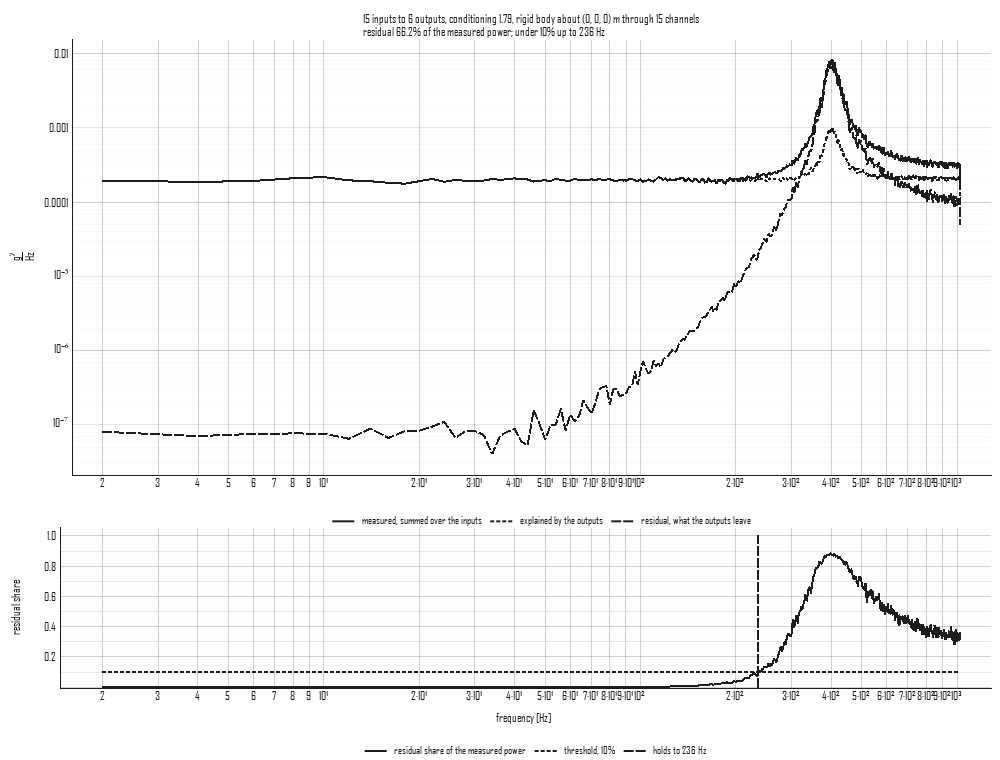
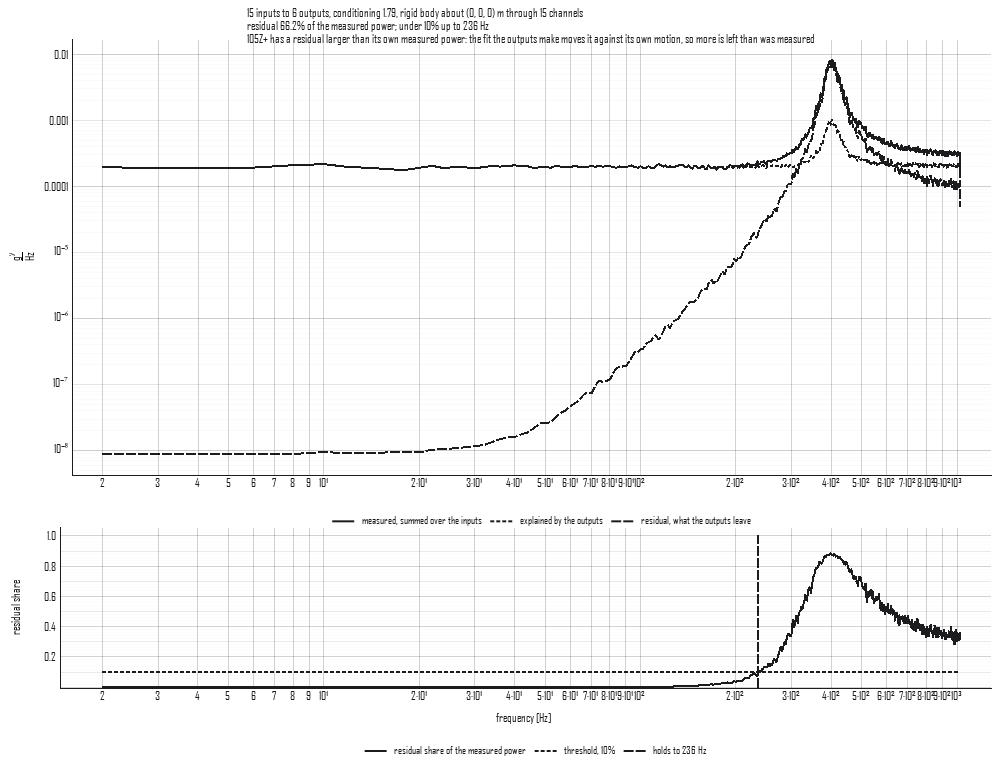
Transformation and partial coherence: each channel's residual read as P G P, complex cross terms checked against simulated records
The residual was each channel's autospectrum less the diagonal of
Q G Q, which carries the cross terms Q G P + P G Q: they sum to nothing
over the channels but not channel by channel, so one channel's
residual came out too small or under zero and was clipped, and the
clipped lines inflated the summed share at low frequency. It is now
read on its own diagonal, P G P. A channel whose residual passes its
own power is said in the notes.

Pinned against records: three inputs whose cross terms turn in phase
with frequency transform as the records the matrix makes, cross terms
included, and the residual is the autospectrum of what the projector
leaves of them; a mean of three channels worked by hand. Partial and
multiple coherence of two correlated drives through a complex plant
read the values the simulation gives, which a conditioning built with
the plain transpose misses by more than 0.15. The status line says at
how many lines a partial coherence is undefined. Guide figure redrawn.

diff --git a/src/visualdynamics/core/transformation.py b/src/visualdynamics/core/transformation.py
@@ -21,7 +21,9 @@ applied the same way, to a time history or spectrum row by row,
 `y = T u`, and to a cross-spectral density or a specification as the
 quadratic form `G_yy = T G_uu Tᵀ`, which needs every cross term between
 the inputs: the phase between two channels is what tells a translation
-from a rotation.
+from a rotation. The package stores a cross term as conj(X_a)·X_b
+(`compute_cpsds`), which makes the form `conj(T) G_uu Tᵀ`; a
+transformation is real, so the two are one.
 
 Every input and output is a translation or a rotation. An entry's unit
 follows from the two it joins: `[T_ij] = length^(r_j − r_i)`, with `r`
@@ -930,9 +932,14 @@ class TransformationResidual:
     quantity : str
         The motion the density is of.
     measured, explained, residual : numpy.ndarray
-        `(channels, lines)`: each input's autospectrum, the part of it
-        the outputs explain, `Q G Q`, and the rest, `P G P`, in SI.
-        `measured = explained + residual` channel by channel.
+        `(channels, lines)`: each input's autospectrum, the diagonal
+        of `Q G Q` (what the outputs explain) and the diagonal of
+        `P G P` (the rest), in SI. Summed over the channels,
+        `measured = explained + residual` exactly, since `P Q = 0`; a
+        single channel's two parts also share the cross terms
+        `Q G P + P G Q`, so they need not add up to its autospectrum,
+        and a quiet channel's residual can pass its own power where the
+        projector carries a louder channel's motion into it.
     threshold : float
         The share of the measured power the residual may reach and the
         transformation still be said to hold (`holds_to`).
@@ -981,8 +988,10 @@ class TransformationResidual:
 
     @property
     def channel_fractions(self) -> np.ndarray:
-        """Each input's residual share of its own power over the band,
-        not a number for a channel that measured nothing."""
+        """Each input's residual over its own power across the band,
+        not a number for a channel that measured nothing. It can pass
+        one on a quiet channel, where the projector carries a louder
+        channel's motion into it (`residual`)."""
         power = np.sum(self.measured, axis=1)
         with np.errstate(divide='ignore', invalid='ignore'):
             share = np.sum(self.residual, axis=1) / power
@@ -1045,8 +1054,10 @@ def read_residual(transformation: Transformation, density: DataArray,
 
     With `Q = T⁺T` and `P = I − Q`, the explained part of the
     cross-spectral matrix at the inputs is `Q G Q` and the residual
-    `P G P`; on the diagonal they sum to the measured autospectra
-    because `P Q = 0`. For a rigid-body transformation the residual is
+    `P G P`; their traces sum to the measured power because `P Q = 0`,
+    and each is read on its own diagonal, since channel by channel the
+    cross terms `Q G P + P G Q` need not vanish. For a rigid-body
+    transformation the residual is
     the motion that is not rigid, and `holds_to` says up to what
     frequency it stays under `threshold` of the measured power.
 
@@ -1106,6 +1117,14 @@ def read_residual(transformation: Transformation, density: DataArray,
                               transformation.input_kinds,
                               transformation.input_kinds)
     measured, _same = identity.apply(density, records, quantity=quantity)
+    # and `P G P` read on its own: by difference, each channel's
+    # residual would carry the cross terms `Q G P + P G Q`, which sum to
+    # nothing over the channels but not channel by channel
+    projector = Transformation(transformation.residual_projector,
+                               transformation.inputs, transformation.inputs,
+                               transformation.input_kinds,
+                               transformation.input_kinds)
+    left, _left = projector.apply(density, records, quantity=quantity)
     base = next(iter(_report.shared))
 
     def diagonal(psd):
@@ -1116,15 +1135,28 @@ def read_residual(transformation: Transformation, density: DataArray,
 
     g = diagonal(measured)
     q = diagonal(explained)
-    # the residual by difference, which is `P G P` on the diagonal; a
-    # few parts in 1e15 under zero is the subtraction
-    r = np.maximum(g - q, 0.0)
+    # each is a power, so a few parts in 1e15 under zero is round-off
+    r = np.maximum(diagonal(left), 0.0)
     dead = [name for name, row in zip(transformation.inputs, g)
             if not np.any(row > 0.0)]
     if dead:
         notes.append(f'{", ".join(dead)} measured nothing, so '
                      f'{"they say" if len(dead) > 1 else "it says"} nothing '
                      'about the residual')
+    with np.errstate(divide='ignore', invalid='ignore'):
+        over = [name for name, mine, power in zip(
+            transformation.inputs, np.sum(r, axis=1), np.sum(g, axis=1))
+            if power > 0.0 and mine > power]
+    if over:
+        # a residual larger than the motion measured reads as an error
+        # unless the reading says how it arises
+        many = len(over) > 1
+        notes.append(f'{", ".join(over)} {"have" if many else "has"} a '
+                     f'residual larger than {"their" if many else "its"} '
+                     'own measured power: the fit the outputs make moves '
+                     f'{"them" if many else "it"} against '
+                     f'{"their" if many else "its"} own motion, so more is '
+                     'left than was measured')
     total = np.sum(g, axis=0)
     empty = int(np.sum(~(total > 0.0)))
     if empty and empty < len(total):
@@ -1132,5 +1164,5 @@ def read_residual(transformation: Transformation, density: DataArray,
                      'power, where the residual is not read')
     return TransformationResidual(
         transformation, np.asarray(density.abscissa, dtype=np.float64),
-        list(transformation.inputs), base, g, np.minimum(q, g), r,
+        list(transformation.inputs), base, g, np.maximum(q, 0.0), r,
         float(threshold), notes)

diff --git a/tests/test_transformation.py b/tests/test_transformation.py
@@ -669,6 +669,106 @@ def test_a_density_with_other_channels_is_split_to_its_inputs():
     np.testing.assert_allclose(out.ordinate, expected.ordinate)
 
 
+def test_a_density_with_complex_cross_terms_transforms_as_its_records_do():
+    """Three Z inputs along a line whose cross terms are complex (each
+    carries the first some samples late, so the phase between them turns
+    with frequency): bounce and pitch applied to their CPSDs are the
+    CPSD of the records the matrix makes, cross terms included, and the
+    residual read from the density is the autospectrum of what the
+    residual projector leaves of the records. The package stores a cross
+    term as conj(X_a) X_b, so a density goes through as conj(T) G T^T,
+    which is T G T^T for a real T; a density read transposed would give
+    the outputs' cross terms conjugated, and a real-valued case could not
+    see it."""
+    rng = np.random.default_rng(5)
+    n = 1 << 14
+    w = rng.standard_normal((3, n))
+    u = np.vstack([w[0], 0.7 * np.roll(w[0], 5) + 0.4 * w[1],
+                   0.5 * np.roll(w[0], 11) + 0.6 * w[2]])
+    t = np.arange(n) / 1024.0
+    dofs = ['1Z+', '2Z+', '3Z+']
+    averaging = Averaging(frame_length=256, overlap=0.5).filled(n, 1024.0)
+
+    def history(values, names):
+        made = visualdynamics.TimeHistory(t, values, response_dof=names,
+                                          ordinate_dim='acceleration')
+        made.averaging = averaging
+        return made
+
+    inputs = history(u, dofs)
+    density = inputs.compute_cpsds()
+    middle = density.ordinate[1][1:-1]
+    assert np.abs(np.imag(middle)).max() > 0.5 * np.abs(middle).max()
+    phi = np.array([[1.0, -0.2], [1.0, 0.0], [1.0, 0.2]])
+    matrix = Transformation.typed(np.linalg.pinv(phi), dofs,
+                                  ['9Z+', '9RY+'])
+    out, _report = matrix.apply(density)
+    records, _report = matrix.apply(inputs)
+    records.averaging = averaging
+    truth = records.compute_cpsds()
+    where = {pair: i for i, pair in enumerate(zip(truth.response_dof,
+                                                  truth.reference_dof))}
+    for i, pair in enumerate(zip(out.response_dof, out.reference_dof)):
+        np.testing.assert_allclose(out.ordinate[i],
+                                   truth.ordinate[where[pair]],
+                                   rtol=1e-9, atol=1e-12)
+    left = history(matrix.residual_projector @ u, dofs).compute_cpsds()
+    expected = np.real(left.ordinate[[0, 4, 8]])
+    reading = read_residual(matrix, density)
+    assert expected.max() > 0.01 * np.real(density.ordinate[0]).max()
+    np.testing.assert_allclose(reading.residual, expected,
+                               rtol=1e-6, atol=1e-9 * expected.max())
+
+
+def test_each_channels_residual_is_its_own_and_can_pass_its_power():
+    """The mean of three Z channels as the one output, and a density
+    where only the third moves much (0.01, 0.01 and 1, uncorrelated).
+    With P = I - J/3, the first channel's residual is
+    (4/9)(0.01) + (1/9)(0.01) + (1/9)(1) = 1.05/9: the mean moves it by a
+    third of the third channel's motion, which it did not make. Read by
+    difference from its own autospectrum it would be 0.01 - 1.02/9,
+    under zero, and read as nothing."""
+    dofs = ['1Z+', '2Z+', '3Z+']
+    levels = np.diag([0.01, 0.01, 1.0])
+    f = np.array([10.0, 20.0])
+    psd = visualdynamics.Psd(
+        f, np.array([np.full(2, levels[i, j], dtype=complex)
+                     for i in range(3) for j in range(3)]),
+        response_dof=[d for d in dofs for _ in dofs],
+        reference_dof=[d for _ in dofs for d in dofs],
+        ordinate_dim='acceleration**2/frequency')
+    mean = Transformation.typed(np.full((1, 3), 1.0 / 3.0), dofs, ['9Z+'])
+    reading = read_residual(mean, psd)
+    assert reading.residual[0] == pytest.approx(np.full(2, 1.05 / 9.0))
+    assert reading.residual[2] == pytest.approx(np.full(2, 4.0 / 9.0
+                                                        + 0.02 / 9.0))
+    assert reading.channel_fractions[0] == pytest.approx(10.5 / 9.0 * 10.0)
+    assert ('1Z+, 2Z+ have a residual larger than their own measured '
+            'power') in reading.notes[-1]
+    # the summed residual is still the trace's: tr(PGP) = tr(G) - tr(QGQ)
+    assert reading.fraction == pytest.approx(
+        np.full(2, (1.02 - 1.02 / 3.0) / 1.02))
+
+    def density(levels):
+        return visualdynamics.Psd(
+            f, np.array([np.full(2, level if i == j else 0.0, dtype=complex)
+                         for i, level in enumerate(levels) for j in range(3)]),
+            response_dof=[d for d in dofs for _ in dofs],
+            reference_dof=[d for _ in dofs for d in dofs],
+            ordinate_dim='acceleration**2/frequency')
+
+    # one channel over: (4/9)(0.01) + (1/9)(0.5) + (1/9)(1) against 0.01,
+    # where the second's (4/9)(0.5) + (1/9)(1.01) stays under its 0.5
+    one = read_residual(mean, density([0.01, 0.5, 1.0]))
+    assert one.notes[-1].startswith(
+        '1Z+ has a residual larger than its own measured power: the fit '
+        'the outputs make moves it against its own motion')
+    # a channel that measured nothing is said to, and not to be over
+    dead = read_residual(mean, density([0.0, 0.5, 1.0]))
+    assert any(note.startswith('1Z+ measured nothing') for note in dead.notes)
+    assert not any('larger than' in note for note in dead.notes)
+
+
 def test_three_inputs_are_all_named_and_no_more_implied():
     three = Transformation.typed(np.ones((1, 3)), ['1Z+', '2Z+', '3Z+'],
                                  ['9Z+'])

diff --git a/tests/test_partial_coherence.py b/tests/test_partial_coherence.py
@@ -266,6 +266,8 @@ def test_a_line_that_is_not_a_number_and_two_dead_channels_are_said():
     assert np.isnan(reading.multiple[0, 1])
     assert np.isfinite(reading.partial[0, :, 0]).all()
     assert any(note.startswith('1 line holding') for note in reading.notes)
+    # and the one line the status line shows says it too
+    assert reading.describe(0).endswith(', undefined at 1 of 3 lines')
     dead = np.array(_hand_matrix())
     dead[0, 1, :] = dead[0, :, 1] = 0.0
     dead[0, 2, :] = dead[0, :, 2] = 0.0
@@ -402,3 +404,54 @@ def test_independent_drives_are_never_said_to_be_coupled_by_chance():
 def test_independent_drives_are_not_said_to_be_explained_by_each_other():
     reading = _history().read_partial_coherence()
     assert not any('explained completely' in note for note in reading.notes)
+
+
+# ---- a complex plant and complex cross terms, against what was simulated -------
+
+
+def test_correlated_drives_through_a_complex_plant_read_their_simulated_truth():
+    """Two drives with a complex cross term (the second carries the first
+    three samples late, so their phase turns with frequency) through two
+    short FIR filters with their own delays, plus noise: every quantity
+    complex, and the answer known from what was simulated. With the
+    first drive W1, the second 0.8 e^-j3w W1 + W2, and the noise of
+    standard deviation s, the response with the first drive removed is
+    H2 W2 plus the noise, so its partial coherence with the second is
+    |H2|^2 / (|H2|^2 + s^2); the first drive with the second removed is
+    (W1 - conj(c) W2) / (1 + |c|^2), so its partial coherence is
+    g / (g + s^2) with g = |H1|^2 / (1 + |c|^2). A real-valued case
+    cannot tell a conditioning built with the conjugate transpose from
+    one built with the plain transpose; this one reads the plain one
+    more than 0.15 off on average."""
+    from scipy.signal import lfilter
+
+    rng = np.random.default_rng(3)
+    n, s = 1 << 16, 0.5
+    w = rng.standard_normal((3, n))
+    drives = np.vstack([w[0], 0.8 * np.roll(w[0], 3) + w[1]])
+    h1, h2 = [1.0, 0.0, 0.6], [0.0, 0.7, 0.0, 0.0, -0.3]
+    y = (lfilter(h1, 1.0, drives[0]) + lfilter(h2, 1.0, drives[1])
+         + s * w[2])
+    history = visualdynamics.TimeHistory(
+        np.arange(n) / RATE, np.vstack([drives, y]),
+        response_dof=['1Z+', '2Z+', '101Z+'],
+        ordinate_dim=['force', 'force', 'acceleration'])
+    history.averaging = Averaging(frame_length=512, overlap=0.5).filled(
+        n, RATE)
+    reading = history.read_partial_coherence()
+    z = np.exp(-2j * np.pi * reading.frequency / RATE)
+    one = sum(tap * z ** k for k, tap in enumerate(h1))
+    two = sum(tap * z ** k for k, tap in enumerate(h2))
+    c = 0.8 * z ** 3
+    explained = np.abs(one + c * two) ** 2 + np.abs(two) ** 2
+    g = np.abs(one) ** 2 / (1.0 + np.abs(c) ** 2)
+    truth = {'multiple': explained / (explained + s ** 2),
+             'first': g / (g + s ** 2),
+             'second': np.abs(two) ** 2 / (np.abs(two) ** 2 + s ** 2)}
+    band = slice(2, -2)
+    read = {'multiple': reading.multiple[0], 'first': reading.partial[0, 0],
+            'second': reading.partial[0, 1]}
+    for name, value in read.items():
+        assert np.mean(np.abs(value[band] - truth[name][band])) < 0.04, name
+    np.testing.assert_allclose(np.sum(reading.virtual[0], axis=0)[band],
+                               reading.multiple[0][band], atol=1e-9)

diff --git a/src/visualdynamics/core/partial_coherence.py b/src/visualdynamics/core/partial_coherence.py
@@ -309,6 +309,12 @@ class PartialCoherence:
             best = int(np.nanargmax(medians))
             parts.append(f'most explained by {self.references[best]} '
                          f'(median partial coherence {medians[best]:.2f})')
+            # the median is over the lines where it is defined; where it
+            # is not is part of the answer, so it is said beside it
+            undefined = int(np.sum(np.isnan(self.partial[k]).any(axis=0)))
+            if undefined:
+                parts.append(f'undefined at {undefined} of '
+                             f'{self.partial.shape[-1]} lines')
         else:
             parts.append('no partial coherence defined')
         coupled = self.coupled()

diff --git a/docs/guide/transformation.md b/docs/guide/transformation.md
@@ -134,11 +134,15 @@ middle, moving as a rigid body under white noise, with a flexible mode
 at 400 Hz (Q 10) that lifts the corners and drops the middle, and a
 small noise floor on every channel (`tools/make_concept_figures.py`).
 The measured power is solid, the part the six motions explain dotted
-and the residual dashed. At 100 Hz the residual is 0.3 % of the power;
+and the residual dashed. At 100 Hz the residual is 0.2 % of the power;
 it reaches the 10 % threshold at 236 Hz, 35 % at 300 Hz and 88 % at the
 mode. The middle point's Z channel has the largest residual of its own,
-92 % over the band, because the mode moves it most and no rigid motion
-moves it that way.
+1.39 times its measured power over the band: the mode moves it down
+while the corners go up, and the rigid fit lifts it with the corners,
+so what is left at that channel is more than was measured there. The
+reading says so in its notes. Channel by channel, the explained part
+and the residual are each read on their own diagonal and need not add
+up to the channel's autospectrum; summed over the channels, they do.
 
 ## In the app
 
